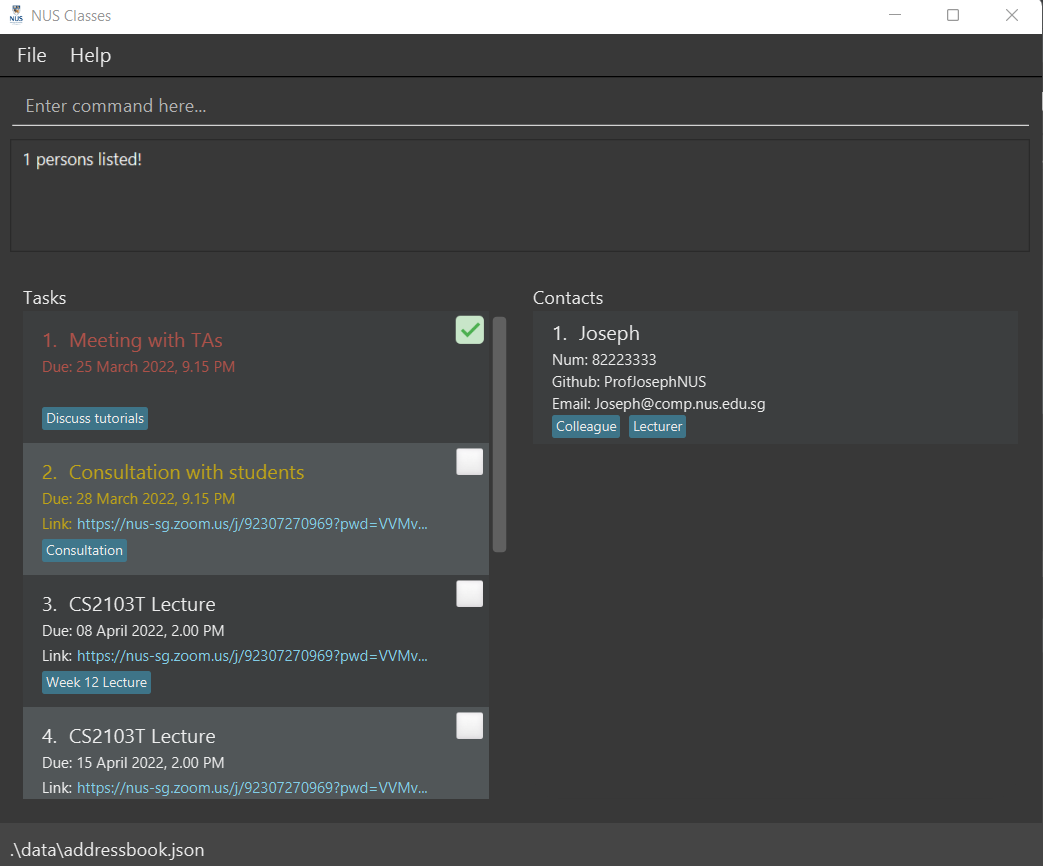
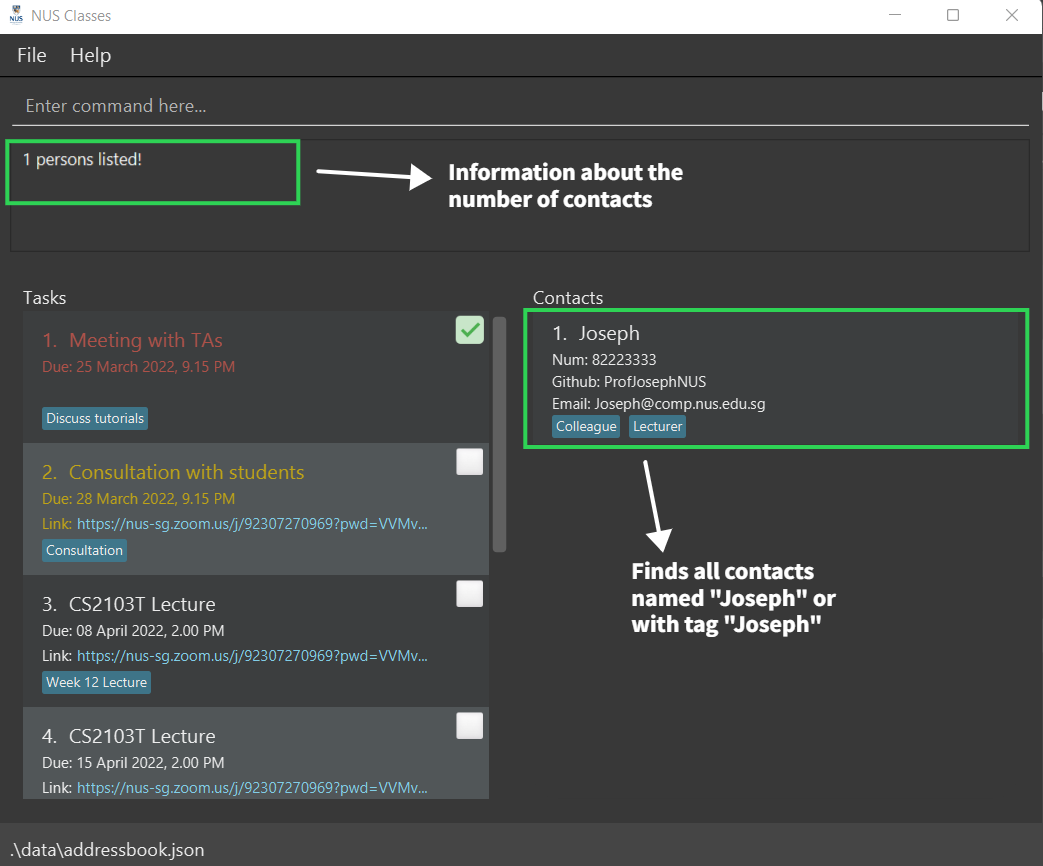
Update Edit Command to fix issue where could not edit contact
Update relevant test cases

Added screenshots to UG

Update PPP

Changed region(s): [[0.4909, 0.343, 1.0, 0.7483], [0.0, 0.1559, 0.675, 0.2494]]

diff --git a/src/test/java/seedu/address/model/AddressBookTest.java b/src/test/java/seedu/address/model/AddressBookTest.java
@@ -39,25 +39,25 @@ public class AddressBookTest {
     }
 
     @Test
-    public void hasPerson_nullPerson_throwsNullPointerException() {
-        assertThrows(NullPointerException.class, () -> addressBook.hasPerson(null));
+    public void hasName_nullPerson_throwsNullPointerException() {
+        assertThrows(NullPointerException.class, () -> addressBook.hasName(null));
     }
 
     @Test
-    public void hasPerson_personNotInAddressBook_returnsFalse() {
-        assertFalse(addressBook.hasPerson(ALICE));
+    public void hasName_personNotInAddressBook_returnsFalse() {
+        assertFalse(addressBook.hasName(ALICE));
     }
 
     @Test
-    public void hasPerson_personInAddressBook_returnsTrue() {
+    public void hasName_personInAddressBook_returnsTrue() {
         addressBook.addPerson(ALICE);
-        assertTrue(addressBook.hasPerson(ALICE));
+        assertTrue(addressBook.hasName(ALICE));
     }
 
     @Test
-    public void hasPerson_personWithSameIdentityFieldsInAddressBook_returnsTrue() {
+    public void hasName_personWithSameIdentityFieldsInAddressBook_returnsTrue() {
         addressBook.addPerson(AMY);
-        assertTrue(addressBook.hasPerson(AMY));
+        assertTrue(addressBook.hasName(AMY));
     }
 
     @Test

diff --git a/src/test/java/seedu/address/model/ModelManagerTest.java b/src/test/java/seedu/address/model/ModelManagerTest.java
@@ -73,19 +73,19 @@ public class ModelManagerTest {
     }
 
     @Test
-    public void hasPerson_nullPerson_throwsNullPointerException() {
-        assertThrows(NullPointerException.class, () -> modelManager.hasPerson(null));
+    public void hasName_nullPerson_throwsNullPointerException() {
+        assertThrows(NullPointerException.class, () -> modelManager.hasName(null));
     }
 
     @Test
-    public void hasPerson_personNotInAddressBook_returnsFalse() {
-        assertFalse(modelManager.hasPerson(ALICE));
+    public void hasName_personNotInAddressBook_returnsFalse() {
+        assertFalse(modelManager.hasName(ALICE));
     }
 
     @Test
-    public void hasPerson_personInAddressBook_returnsTrue() {
+    public void hasName_personInAddressBook_returnsTrue() {
         modelManager.addPerson(ALICE);
-        assertTrue(modelManager.hasPerson(ALICE));
+        assertTrue(modelManager.hasName(ALICE));
     }
 
     @Test

diff --git a/src/test/java/seedu/address/logic/commands/AddCommandTest.java b/src/test/java/seedu/address/logic/commands/AddCommandTest.java
@@ -189,7 +189,7 @@ public class AddCommandTest {
         }
 
         @Override
-        public boolean hasPerson(Person person) {
+        public boolean hasName(Person person) {
             throw new AssertionError("This method should not be called.");
         }
 
@@ -286,7 +286,7 @@ public class AddCommandTest {
         }
 
         @Override
-        public boolean hasPerson(Person person) {
+        public boolean hasName(Person person) {
             requireNonNull(person);
             return this.person.isSamePerson(person);
         }
@@ -299,7 +299,7 @@ public class AddCommandTest {
         final ArrayList<Person> personsAdded = new ArrayList<>();
 
         @Override
-        public boolean hasPerson(Person person) {
+        public boolean hasName(Person person) {
             requireNonNull(person);
             return personsAdded.stream().anyMatch(person::isSamePerson);
         }

diff --git a/src/test/java/seedu/address/logic/commands/EditCommandTest.java b/src/test/java/seedu/address/logic/commands/EditCommandTest.java
@@ -77,19 +77,6 @@ public class EditCommandTest {
 
 
     @Test
-    public void execute_noFieldSpecifiedUnfilteredList_failure() {
-        EditCommand editCommand = new EditCommand(INDEX_FIRST_PERSON, new EditPersonDescriptor());
-        Person editedPerson = model.getFilteredPersonList().get(INDEX_FIRST_PERSON.getZeroBased());
-
-        String expectedMessage = String.format(EditCommand.MESSAGE_PERSON_NOT_EDITED, EditCommand.MESSAGE_USAGE);
-
-        Model expectedModel = new ModelManager(
-                new AddressBook(model.getAddressBook()), new UserPrefs(), new TaskList());
-
-        assertCommandFailure(editCommand, model, expectedMessage);
-    }
-
-    @Test
     public void execute_filteredList_success() {
         showPersonAtIndex(model, INDEX_FIRST_PERSON);
 

diff --git a/src/main/java/seedu/address/model/Model.java b/src/main/java/seedu/address/model/Model.java
@@ -66,12 +66,12 @@ public interface Model {
     ReadOnlyAddressBook getAddressBook();
 
     /**
-     * Returns true if a person with the same identity as {@code person} exists in the address book.
+     * Returns true if a person with the same name as {@code Person} exists in NUS Classes
      */
-    boolean hasPerson(Person person);
+    boolean hasName(Person person);
 
     /**
-     * Returns true if a person with the same gitUsername as {@code gitUsername} exists in the address book.
+     * Returns true if a person with the same gitUsername as {@code gitUsername} exists in NUS Classes
      *
      * @param gitUsername
      * @return Whether username exists

diff --git a/src/main/java/seedu/address/model/AddressBook.java b/src/main/java/seedu/address/model/AddressBook.java
@@ -62,9 +62,9 @@ public class AddressBook implements ReadOnlyAddressBook {
     //// person-level operations
 
     /**
-     * Returns true if a person with the same identity as {@code person} exists in the address book.
+     * Returns true if a person with the same name as {@code person} exists in the address book.
      */
-    public boolean hasPerson(Person person) {
+    public boolean hasName(Person person) {
         requireNonNull(person);
         return persons.contains(person);
     }

diff --git a/src/main/java/seedu/address/storage/JsonSerializableAddressBook.java b/src/main/java/seedu/address/storage/JsonSerializableAddressBook.java
@@ -49,7 +49,7 @@ class JsonSerializableAddressBook {
         AddressBook addressBook = new AddressBook();
         for (JsonAdaptedPerson jsonAdaptedPerson : persons) {
             Person person = jsonAdaptedPerson.toModelType();
-            if (addressBook.hasPerson(person)) {
+            if (addressBook.hasName(person)) {
                 throw new IllegalValueException(MESSAGE_DUPLICATE_PERSON);
             }
             addressBook.addPerson(person);

diff --git a/src/main/java/seedu/address/model/person/Person.java b/src/main/java/seedu/address/model/person/Person.java
@@ -97,7 +97,7 @@ public class Person {
         }
 
         Person otherPerson = (Person) other;
-        return otherPerson.getPhone().equals(getPhone())
+        return  otherPerson.getPhone().equals(getPhone())
                 && otherPerson.getEmail().equals(getEmail())
                 && otherPerson.getUsername().equals(getUsername())
                 && otherPerson.getTags().equals(getTags());

diff --git a/src/main/java/seedu/address/logic/commands/EditCommand.java b/src/main/java/seedu/address/logic/commands/EditCommand.java
@@ -108,7 +108,7 @@ public class EditCommand extends Command {
         }
 
 
-        if (model.hasPerson(editedPerson)) {
+        if (model.hasName(editedPerson) && !editedPerson.getName().equals(personToEdit.getName())) {
             throw new CommandException(String.format(MESSAGE_PERSON_NOT_EDITED, MESSAGE_USAGE));
         }
 

diff --git a/src/main/java/seedu/address/model/ModelManager.java b/src/main/java/seedu/address/model/ModelManager.java
@@ -96,9 +96,9 @@ public class ModelManager implements Model {
     }
 
     @Override
-    public boolean hasPerson(Person person) {
+    public boolean hasName(Person person) {
         requireNonNull(person);
-        return addressBook.hasPerson(person);
+        return addressBook.hasName(person);
     }
 
     @Override

diff --git a/docs/UserGuide.md b/docs/UserGuide.md
@@ -132,7 +132,9 @@ Adds a contact with basic details like name, phone number, email and Github User
 * `addc n/mary p/87654321 e/mary@gmail.com u/maryCS t/Teammate t/Classmate`
 
 
-<div markdown="block" class="alert alert-info">:bulb: **Tips:**
+<div markdown="block" class="alert alert-info">:bulb: **Notes:**
+
+* Contacts with the same names are allowed. Some modules may be big, so there may be students with the same name!
 
 * You can add multiple tags to a contact for easier management, as some students/TAs might be taking your other modules too. Just put t/ before every tag!
 
@@ -195,7 +197,7 @@ Find contacts whose names and/or tags contain any of the given keywords.
 
 **Examples**:
 * `findc John` returns `john` and `John Doe`.
-* `findc brian sean` returns `Brian Chow`, `Sean Ng`.<br>
+* `findc brian lecturer` returns `Brian Chow`, `Joseph` who has a tag of `Lecturer`.<br>
     <br>
     ![result for 'find brian sean'](images/findcCommandShowcase.png)
 
@@ -268,7 +270,7 @@ Edits an existing task in the task list.
 
 **Format**: `editt INDEX [tn/TASKNAME] [dt/DATETIME, ENDDATETIME*] [z/LINK] [t/TAG]…`
 
-* Updates the task at the specified `INDEX`. The index refers to the index number shown in the displayed task list.
+* Edits the task at the specified `INDEX`. The index refers to the index number shown in the displayed task list.
 * At least one of the optional fields must be provided.
 * Existing values will be updated to the input values.
 
@@ -277,13 +279,13 @@ The index **must be a positive integer** 1, 2, 3, …
 </div>
 
 **Examples**:
-* `editt 1 tn/Meeting with TAs` Updates the name of the 1st displayed task to be `Meeting with TAs`.
-* `editt 2 tn/Meeting with Prof Tan dt/01-12-2022 1200, 01-12-2022 1300` Updates the name of the 2nd displayed task to be `Meeting with Profs Tan` and the date to be 1st Dec 2022, 12pm-1pm. <br>
+* `editt 1 tn/Meeting with TAs` Edits the name of the 1st displayed task to be `Meeting with TAs`.
+* `editt 2 tn/Meeting with Prof Tan dt/01-12-2022 1200, 01-12-2022 1300` Edits the name of the 2nd displayed task to be `Meeting with Profs Tan` and the date to be 1st Dec 2022, 12pm-1pm. <br>
     <br>
     ![`editt 2 tn/Meeting with Prof Tan dt/01-12-2022 1200, 01-12-2022 1300`](images/edittCommandShowcase1.png)
 
 
-* `editt 1 dt/12-12-2022 1200, 12-12-2022 1400` Updates the datetime of the 1st displayed task to be on `12th Dec 2022, 12-2pm`. <br>
+* `editt 1 dt/12-12-2022 1200, 12-12-2022 1400` Edits the datetime of the 1st displayed task to be on `12th Dec 2022, 12-2pm`. <br>
     <br>
     ![`editt 1 dt/12-12-2022 1200, 12-12-2022 1400`](images/edittCommandShowcase2.png)
     

diff --git a/docs/tutorials/TracingCode.md b/docs/tutorials/TracingCode.md
@@ -191,7 +191,7 @@ Recall from the User Guide that the `edit` command has the format: `edit INDEX [
        ...
        Person personToEdit = lastShownList.get(index.getZeroBased());
        Person editedPerson = createEditedPerson(personToEdit, editPersonDescriptor);
-       if (!personToEdit.isSamePerson(editedPerson) && model.hasPerson(editedPerson)) {
+       if (!personToEdit.isSamePerson(editedPerson) && model.hasName(editedPerson)) {
            throw new CommandException(MESSAGE_DUPLICATE_PERSON);
        }
        model.setPerson(personToEdit, editedPerson);
